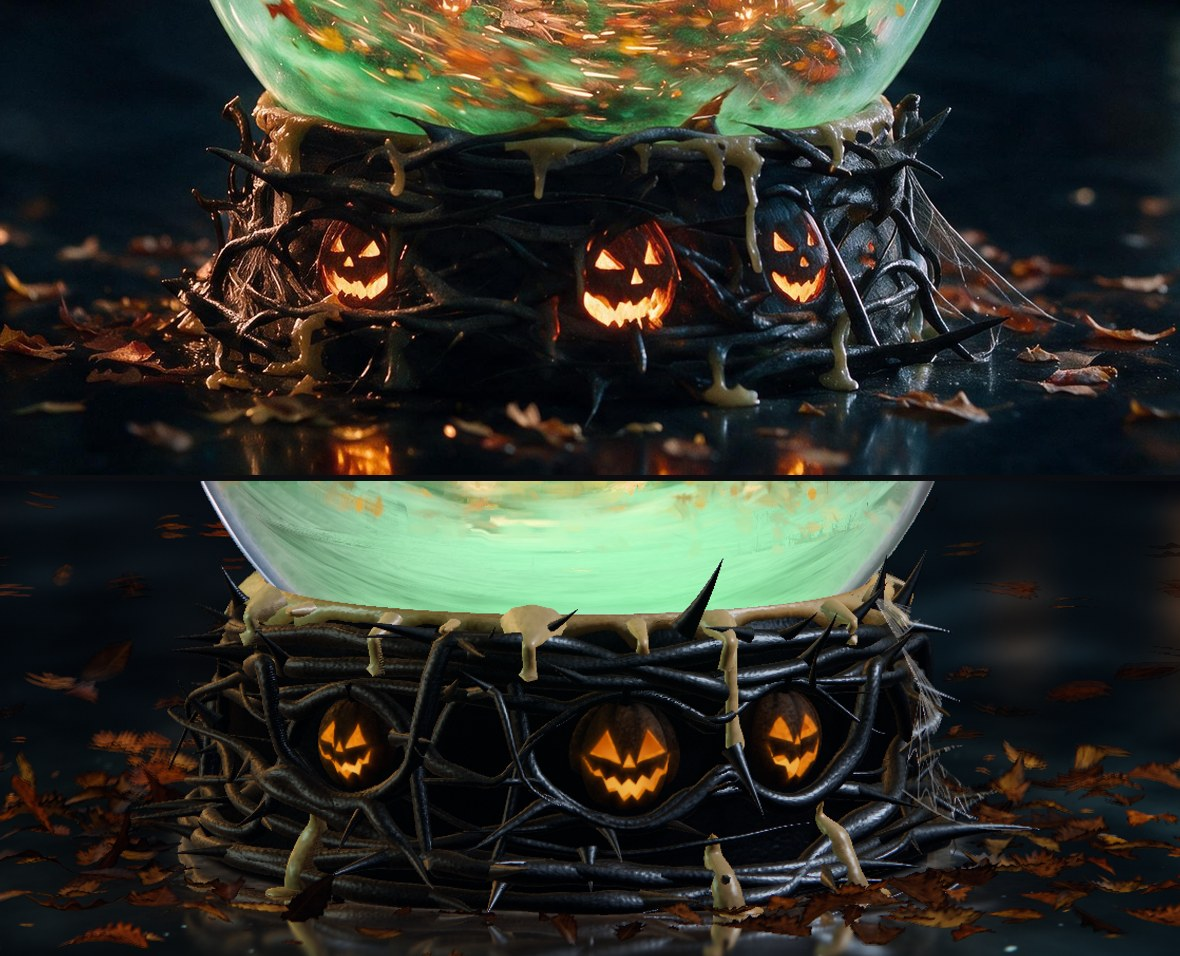
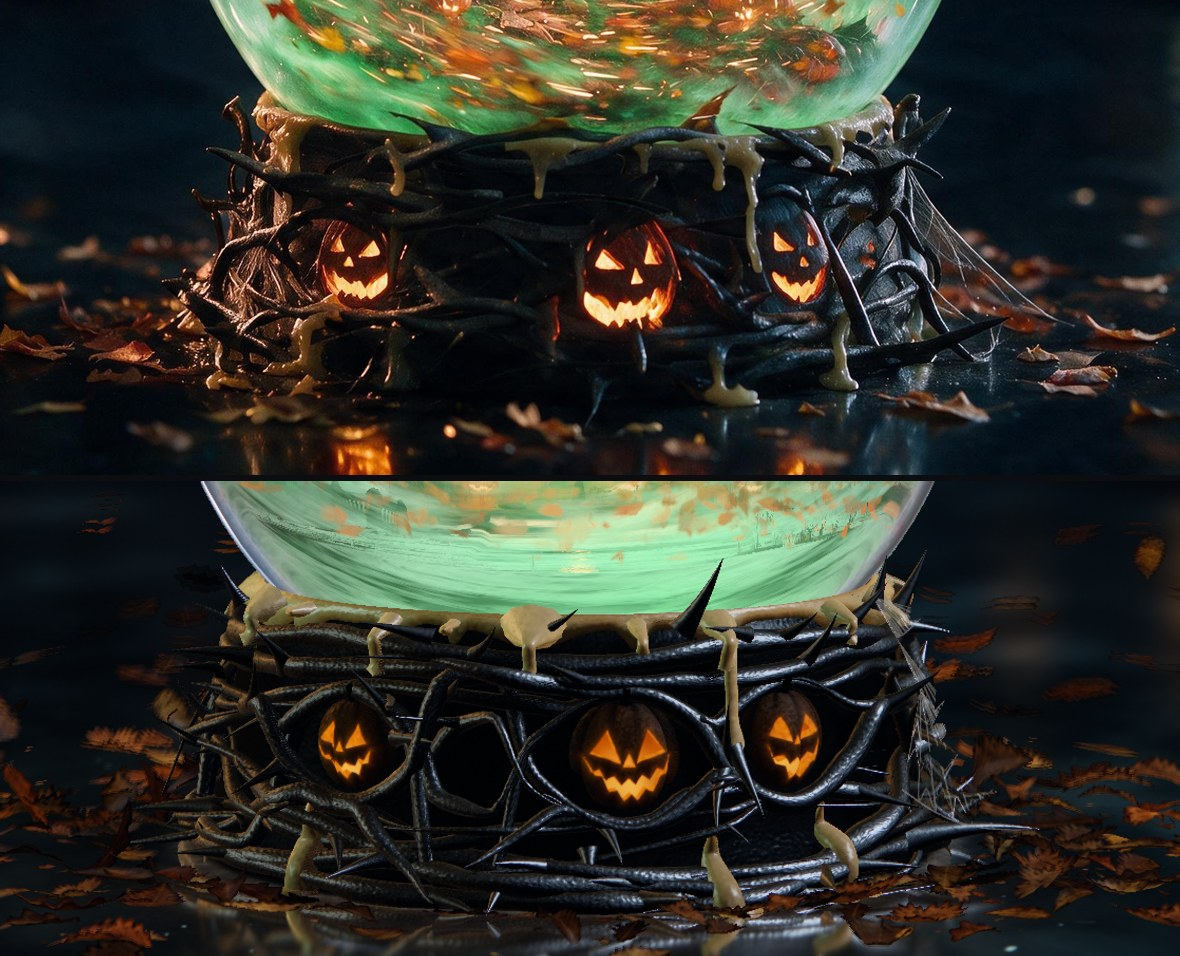
Looks at 02:39 UTC: landed pair on b5accbf, REPORT.md and HANDOVER.md
Make targets, in order: npm run make -- base-fall, npm run make -- slab-fall, then npm run texpack, npm run build.

diff --git a/HANDOVER.md b/HANDOVER.md
@@ -1,0 +1,78 @@
+# Handover: fall's base, surface dressing and arrival
+
+Written by `fall_base` for whoever takes these files next. Parts in the register: `base-fall`, `surface-dressing-fall`, `arrival-fall`. Code branch `agent/p4-fall_base`, tip f2407a8 (a merge of `main` 192ccf3 on top of b5accbf, the last change of these files); this branch (`agent/p4-fall_base-looks`) holds only pictures and these two files and is never merged.
+
+## Your files
+
+- `assets-src/base-fall/layout.mjs`: numbers read by eye from `references/approved/fall-rest.png` (the three faces in view, `DRIPS`, `RUNS`, `HERO_THORNS`), the drum profile, and `onCylinder(px, py, radiusMm)`, which turns a pixel of the approved image into a place on a cylinder through the reference camera of `assets-src/refrig/fall.json`.
+- `assets-src/base-fall/mesh.mjs`: `buildIron` (drum, collar, strands, thorns), `buildPumpkins`, `buildWax`, `buildWeb`. `maps.mjs`: the iron detail tile and the four carved faces as a distance map. `lib.mjs`: the mesh soup, tubes, noise. `build.mjs`: writes the files. `RECIPE.md`.
+- `assets-src/slab-fall/build.mjs` (leaf sheet and the leaves mesh), `lib.mjs`, `RECIPE.md`.
+- `src/seasons/fall/base.ts`: materials of iron, pumpkin, wax and web, the candle light (`LIGHT`, `faceLevel`, `setCandles`).
+- `src/seasons/fall/slab.ts`: the leaves (the skitter is in the vertex shader), the rim of light at the foot and the candle light on the slab; exports `dressing()` and `setSkitter`.
+- `src/seasons/fall/arrival.ts`: `seconds(moment)` and `update`, which hand the time since the landing to `setCandles` and `setSkitter`.
+
+Outputs, never committed: `assets-full/fall/base-fall.glb`, `base-iron-detail.lin.tile.w1024.png`, `base-faces.lin.w1024.png`, `slab-fall.glb`, `slab-leaves.srgb.w1024.png`.
+
+## Make targets, in order
+
+1. `npm run make -- base-fall` (about 5 s)
+2. `npm run make -- slab-fall` (about 1 s)
+3. `npm run texpack`
+4. `npm run build`
+
+After a merge of `main` the other builders' folders that changed need their own make before a render works (`tree-fall`, `village-fall`, and for shake-3 `tree-summer`, `base-summer`, `village-summer`); a render says "file is not prepared" or "dist/ does not match the source" when one is missing.
+
+## What is still wrong, worst first (as a viewer of the hero would rank it)
+
+1. The weave reads tidier and more level than the approved tangle: stacked rings at the crown and the foot, where the approved image has branches crossing at 10 to 30 degrees everywhere and darker depth between them. Picture: `01-rest-base-pair.jpg`.
+2. The left side of the ring lacks the warm brown rim-lit thorns of the approved image. A broad lobe of the rim light exists (`ironWarm`, 0.3) but only tints the outermost strands. Same picture.
+3. The cobweb is a few hay-thin lines close to the ring, not the pale fan from the top right thorns down to the slab. See "Tried and did not work". Same picture, right edge.
+4. The face openings are a flatter yellow-orange than the approved orange with hot mouths, and the rind round each face is browner and rounder than the approved dark rind. Pictures 01 and `03-rest-base-camera.jpg`.
+5. Leaves: sparser at the left than the approved heap, all one family of shapes from one procedural sheet; in `02-landed-base-pair.jpg` a few stand dark in front of the foot in mid tumble.
+6. In the `base` camera the long run of wax passes close to the rim of the right pumpkin (not over its openings), the drum wall shows as bare dark leather between faces and foot, and two thorns that point at the camera read as cut cones. Picture 03.
+7. The arrival: the faces reach near full light inside about half a second (the `ember` level is 0.42 of full and the opening is already bright at that level), so the "one after another over the next seconds" reads mostly as a first catch, left to right; the skitter reads as a drift at sheet size. In the change the leaves appear in one step at about 35.27 s while summer's sand is still there. Picture `04-swap-sheet.jpg`.
+8. Not looked at by me at all: the `macro`, `interior`, `surface` and `low` cameras as pictures (the measure rendered `surface` and passed M1, M2, M6 there, but I did not view it), any tier above draft, and the mirror image of the base on the slab beyond what the hero pair shows.
+
+## Stand-ins and fallbacks
+
+None left. Nothing in these files carries `userData.standIn`, `slab.ts` exports an empty `standIns`, and the stand-ins view at rest is black in every pixel. No fallback of `kit/03-METHOD.md` "The fallback chain" is in use: every form is geometry made by script, every map is made by script. The cobweb is the built part at a smaller size than the approved fan (see fault 3), not a stand-in.
+
+## Measured (draft tier, commit b5accbf, before the last merge of `main`)
+
+- `npm run measure -- --unit fall --only M1,M2,M3,M6 --tier draft`: 19 lines, 1 red. M1, M2, M6 pass on every still (rest, shake, interior, base, surface, settled). M3 fall-rest is red at 0.3007 because of the miniature (0.301, `fall_mini`'s part); the base reads 0.892 against the 0.75 threshold.
+- Before the last iron change M3 base was 0.635 (red). Before the leaves reported their texel density M2 was red on five stills (0.19 to 0.46): the leaf shader passed 0 texels to `stageDiag` while flagged as textured. It now passes the true density (`vLeafUv * 1024`).
+- Triangles: `base-fall` 108,868 (iron 73,014, pumpkins 23,838, wax 10,282, web 1,734); `slab-fall` 17,920. Stage 1 was about 129,000, so nothing was added after `/root`'s "add no triangles".
+- Size after texpack in `public/assets/fall/`: my seven files are 3,266,609 bytes (3.12 MiB): `base-fall.glb` 1,669,532, iron detail 658,102 + 252,208 (first), faces 61,198 + 18,576 (first), `slab-fall.glb` 315,792, `slab-leaves` 291,201.
+- Fit against the approved crop (box 620,900,2260,1560, rest): mean difference per channel 31.9, 26.0, 22.3; mean colour approved 38.0, 36.6, 32.3, render 40.6, 39.6, 31.4.
+
+- `npm run determinism` on f2407a8 (after the merge of `main` 192ccf3): "determinism: pass · 3 pictures, 4 page loads, preview, draft, 339 s". `npx tsc --noEmit` clean and `npx vitest run` 432 passed, 4 skipped on the same commit.
+
+## Constants a successor should know
+
+- Geometry: sphere radius 60, `baseHeightMm` 33, `baseDiameterMm` 116, collar as winter's. In the approved image the foot is 1020 px wide at 116 mm (8.79 px per mm); glass circle centre (1417.1, 662.2), radius 564.3 px; the build sits 5.6 px left of the image (from `fall_air`).
+- `mesh.mjs` `addStrands`: 2 ground rings (sprawl 1.1 and 0.4; more than that makes the foot wider than the approved 116 mm), 2 crown rings, 2 mid rings, 25 tapering branches (every third steep: slope 20 to 30 mm over 26 to 42 degrees; the rest 11 to 25 mm over 62 to 150 degrees; `h0` 4 to 27), 18 wires (radius 0.5 to 0.8, `h0` 4 to 21). Every strand bows round every face in `strandPath` (`ex`, `need`); a thorn is refused by `crossesFace` (7 probes, on the ring and in the hero camera's pixels), which is what keeps every face clear of thorns. 27 thorns are refused now.
+- Wax: `DRIPS` hang from the collar ring; `RUNS` (x 1052, 1622, 1788 in approved pixels, pools 3.6, 3.2, 2.8) follow the outer envelope of the weave through `weaveOut(az, h, halfDeg)` and sit 0.45 of their width inside it, so they read as wax lying on strands and not as posts.
+- `base.ts` `LIGHT`: `catchSeconds` [0.05, 0.21, 0.38, 0.52, 0.66, 0.8, 0.94], `takeSeconds` [0.85, 1.5, 2.15, 2.7, 3.15, 3.5, 3.8], `ember` 0.42, `flare` 0.7, `flareSeconds` 0.07, `creepSeconds` 0.9. `uFacePower` 2.3, `uFaceRind` 0.12. Face cave colour mix (1, 0.17, 0.01) to (1, 0.44, 0.08) times (0.36 + 1.15 hot), hot spot at (0.5, 0.3) of the face.
+- Iron light (added by hand after the standard lighting, in `IRON_AFTER`): key 0.2 pow 9 + 1.5 pow 90; card 0.05 pow 10 + 0.26 pow 50 (card colour desaturated by 0.65); rim 0.08 pow 7 + 0.4 pow 50; warm side lobe 0.3 of the rim colour; detail tilt 0.5 on strands. `FLOOR_SHARE` 0.1.
+- `slab.ts` `SKITTER`: `pushMm` 34, `reachMm` 85, `waveMmPerSecond` 520, `slideSeconds` 0.75, `hopMm` 3.2, `spin` 2.6, `tumble` 0.1. Leaf tone 0.6 + 0.6 by leaf; albedo is the sheet mixed 0.18 to 0.6 with a tan grey. Leaves: 300 curled (4.6 to 8.8 mm, nearer the foot by exponent 2.3, more at the sides), 170 crumbs, 330 far.
+- `arrival.ts` `seconds()`: 0 while the globe is in the air on its way into fall (`beat >= swapWindow.fromBeat` and `arrived < 0.5`), then the time since the landing, 1000 at rest. The change itself is the stage's: every material carries `change: 'base'` or `'surface-dressing'`, so the base and leaves dissolve inside the bloom.
+- The mirror image of the faces falls below the hero frame, so the orange on the slab in front of the foot is the candle term in the additive rim sheet (`candleOnSlab`, 0.5 times dust).
+
+## Tried and did not work
+
+- Cobweb as a large fan outside the silhouette of the base (hub at the tip of hero thorn 7, down to the long spike and to the slab at x 80 mm): three tries, in each the sheet showed only where it overlaps the base or lies near the spike; the part over the slab and backdrop did not appear, with thread alpha up to 0.75. I did not find out why (the web is a `stageShader`, transparent, premultiplied, `depthWrite` off, `renderOrder` 4; what is drawn after it over the slab is the first thing to check). Put back to three small sheets close to the ring.
+- A stronger broad rim lobe (0.3 pow 7, and a warm lobe of 0.55): turned the lowest left strands pale beige like wax. `FLOOR_SHARE` 0.3 to 0.1 did not change that band; it was the rim lobe and the wide ground ring.
+- Foot wax runs as free tubes from radius 57.4 to 60: read as bones or pegs leaning on the ring; with a round top as fingers. The envelope method above replaced them.
+- `tumble` 0.28: at the landed still large dark leaves stood upright in front of the faces.
+- Face cave at (0.38 + 1.9 hot): clipped to flat yellow.
+
+## Looks used (cap 40 a part)
+
+- `base-fall`: 38, counting two crops of renders already counted.
+- `surface-dressing-fall`: 31 (the same hero and landed pairs show it, plus one sheet of the leaf atlas).
+- `arrival-fall`: 3 motion sheets (arrival, landing, swap) and the 6 landed pairs.
+- Stand-ins view: seen once at stage 1; at the end rendered at rest, hero, draft and read as numbers (every pixel 0).
+
+## ASSETS.md rows
+
+None needed under "Generated images" or "Fetched": every file of both folders is made by script, 0 takes of 6, no pixel of an approved image, no web photograph. The two `RECIPE.md` files list each output with its script, inputs and command.

diff --git a/REPORT.md b/REPORT.md
@@ -1,0 +1,20 @@
+# Report: fall_base (fall's base, surface dressing and arrival)
+
+1. Branch `agent/p4-fall_base`, last commit f2407a8 (merge of `main` 192ccf3 on top of b5accbf, the last change of my files). Looks branch `agent/p4-fall_base-looks`; longer notes in `HANDOVER.md` beside this file.
+2. Stand-ins and fallbacks: none left. Nothing in my files carries `userData.standIn`; the stand-ins view at rest, hero, draft is 0 in every pixel (read as numbers). No fallback of the kit's chain is in use; all geometry and maps are made by script, 0 generated takes.
+3. Still wrong, worst first, as a viewer of the hero would rank it:
+4. (1) The weave reads tidier and more level than the approved thorn tangle (stacked rings at crown and foot, less depth between strands). Picture 01.
+5. (2) The left side of the ring lacks the warm brown rim-lit thorns of the approved image. Picture 01.
+6. (3) The cobweb is a few hay-thin lines close to the ring, not the pale fan from the top right thorns to the slab; three tries at the fan failed (HANDOVER, "Tried and did not work").
+7. (4) Face openings are a flatter yellow-orange than the approved orange with hot mouths; the rind is browner. Pictures 01, 03.
+8. (5) Leaves are sparser at the left than the approved heap and all from one procedural sheet; a few stand dark in mid tumble at the landed still. Picture 02.
+9. (6) Base camera: a long wax run passes close to the right pumpkin's rim, the drum wall shows bare between faces and foot, two thorns read as cut cones. Picture 03.
+10. (7) Arrival: the faces reach near full light inside about 0.5 s, so "one after another over the next seconds" reads as a first catch left to right; the skitter reads as a drift; in the change the leaves appear in one step at 35.27 s. Picture 04.
+11. (8) Size: my seven files in `public/assets/fall/` are 3,266,609 bytes (3.12 MiB). If the 3.0 MiB in `/root`'s 00:57 mail is fall's base and slab figure, this is 0.12 MiB over; I did not cut it.
+12. (9) Never viewed by me: the `macro`, `interior`, `surface` and `low` cameras as pictures, and any tier above draft.
+13. Built: `base-fall` (iron drum and collar, 2+2+2 rings, 25 branches, 18 wires, thorns that never cross a face, three pumpkins with carved faces lit from inside, wax drips and foot runs, small cobweb), 108,868 triangles; `surface-dressing-fall` (800 leaves in three sizes from one made sheet, the rim of light at the foot, candle light on the slab), 17,920 triangles; `arrival-fall` (leaves skitter on the landing, faces catch and take light one after another; the change rides the stage's bloom through `change: 'base'` and `'surface-dressing'`). `baseHeightMm` 33, collar as winter's.
+14. Make targets, in order: `npm run make -- base-fall`, `npm run make -- slab-fall`, then `npm run texpack`, then `npm run build`.
+15. Tests on f2407a8 (after the last merge): `npx tsc --noEmit` clean; `npx vitest run` printed "Tests 432 passed | 4 skipped (436)". `npm run determinism` printed "determinism: pass · 3 pictures, 4 page loads, preview, draft, 339 s".
+16. Tests on b5accbf (before the last merge, not run again after it): `npm run measure -- --unit fall --only M1,M2,M3,M6 --tier draft` printed "measure fall: complete · 19 of 19 lines, 1 red". M1, M2, M6 pass on rest, shake, interior, base, surface, settled. The red line is M3 fall-rest 0.3007, which comes from the miniature (0.301, `fall_mini`'s part); the base reads 0.892 against 0.75.
+17. Looks used (cap 40 a part): `base-fall` 38; `surface-dressing-fall` 31 (the same hero and landed pairs plus one sheet of the leaf atlas); `arrival-fall` 3 motion sheets and 6 landed pairs.
+18. Pictures on this branch: `01-rest-base-pair.jpg`, `02-landed-base-pair.jpg`, `03-rest-base-camera.jpg` (one wax change and the iron sheen older than 01), `04-swap-sheet.jpg`; `captions.txt` says what is wrong in each.
